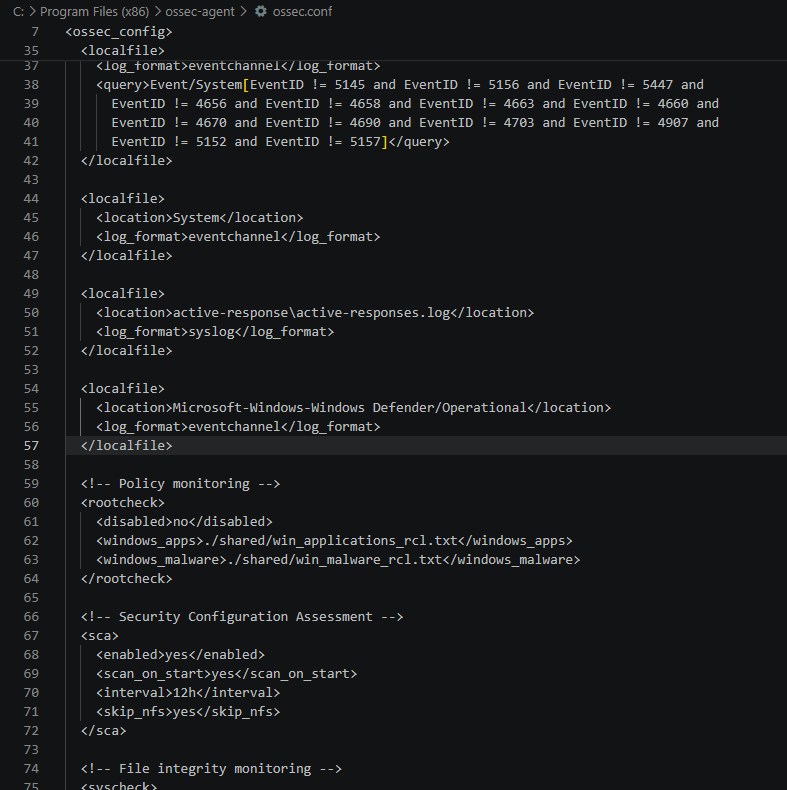
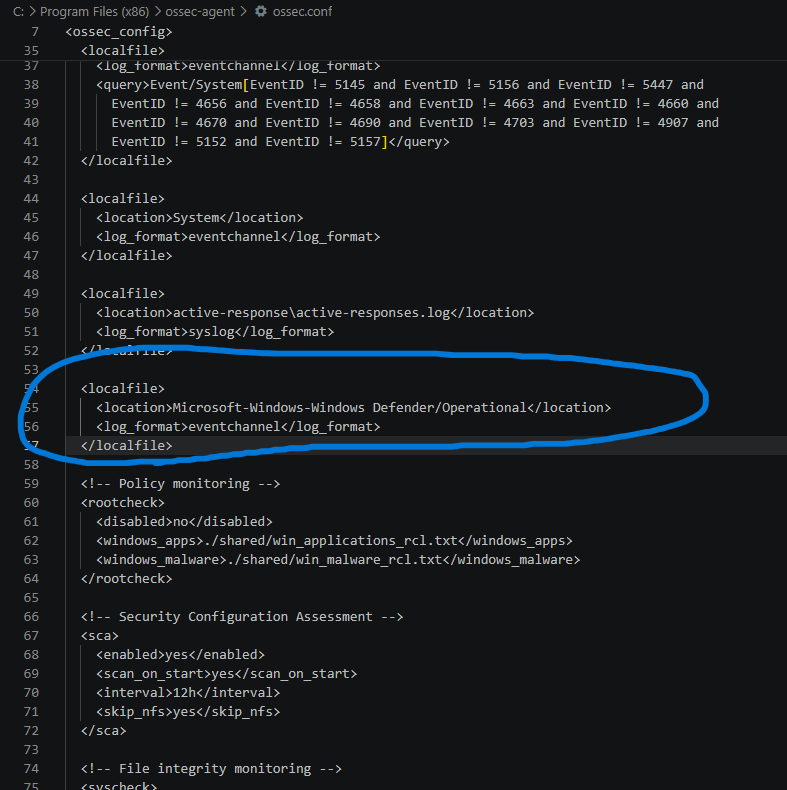
updated proj
removed unnecessary images
updated readme with current project progress
renamed some files for consistency

diff --git a/README.md b/README.md
@@ -50,12 +50,12 @@ The first thing I did to start was to head over to [The Wazuh Docs](https://docu
 
 ![Figure 1](./assets/images/fig-1_server_started.png)
 
-Once that was running, I went to the webpage on localhost port 443 to login with the provided credentials and view the dashboard.
+Once that was running, I went to the webpage on localhost port 443 to log in with the provided credentials and view the dashboard.
 
 
 ![Figure 1.1](./assets/images/fig-1.1_wazuh_dashboard.png)
 
-As you can see, at this point there were no agents running, and the data is all fluff. Time to change that by installing some agents. I started with endpoint-01.
+As you can see, at this point there were no agents running, and the data was all fluff. Time to change that by installing some agents. I started with endpoint-01.
 
 
 ![Figure 2](./assets/images/fig-2_install_agent_endpoint-01.png)
@@ -65,13 +65,13 @@ Once that finished, I made sure it was running.
 
 ![Figure 3](./assets/images/fig-3_wazuh_agent_running.png)
 
-I checked the dashboard to verify that the agent could reach the server on the VM
+I checked the dashboard to verify that the agent could reach the server running on the VM.
 
 
 ![Figure 4](./assets/images/fig-4_endpoint_01_configured.png)
 
 
-Everything looked good, so I moved onto endpoint-02. I had some challenges with the Wazuh agent installation on Windows, but that was only because I misread a section of the docs and didn't download the .msi file required. Once I realized my mistake, I quickly corrected it by downloading the correct file and running the command provided.
+Everything looked good, so I moved on to endpoint-02. I had some challenges with the Wazuh agent installation on Windows, but that was only because I misread a section of the docs and didn't download the .msi file required. Once I realized my mistake, I quickly corrected it by downloading the correct file and running the command provided.
 
 ![Figure 5](./assets/images/fig-5_endpoint-02_started.png)
 
@@ -87,34 +87,40 @@ Stay tuned for part 2: Electric Bugaloo
 
 # Part 2: Adding Windows and Linux Logs
 
-I wanted to add more logging functionality, so I decided to add Windows/Linux logs for more alerts. 
+I wanted to add additional logging functionality, so I decided to add Windows and Linux logs for more alerts. 
 I followed [this guide](https://github.com/UsmanPrime/Wazuh-Setup). 
 
 Starting with Windows, I opened the `ossec.conf` file and added a section of code that would add Windows Defender events with appropriate alert levels to the Wazuh agent.
  
-![Figure 7](./assets/images/fig-7_sysmon.png)
+![Figure 7](./assets/images/fig-7_win_defender.png)
 
 
-Then, I added Sysmon logging: 
+Then, for more detailed logging, I installed and configured Sysmon.
 
-![Figure 8](./assets/images/fig-8_win_defender.png)
+**Installation**
+
+![Figure 8.2: Installation](./assets/images/fig-82_sysmon_installed.png)
+
+**Configuration**
+
+![Figure 8.1: Configuration](./assets/images/fig-81_sysmon.png)
 
 
-Lastly, I added monitoring of a specific directory, including notifications of when a file was deleted, created, or modified. 
+Lastly, I added monitoring of a custom directory, including notifications when a file was deleted, created, or modified. This is in addition to the directories already monitored by default.
+Here I only created a test directory to show how it is done, but this process works for any folder on Windows. 
 
-![Figure 9](./assets/images/)
+![Figure 9](./assets/images/fig-9_file_integrity.png)
 
 
-In order to test these functions, I created some alerts by logging in/out and by creating some files. Then, I went to the dashboard and verified that I could see that the alerts triggered.
+To test the alerts, I created, deleted, and edited some files. I used PowerShell to launch `notepad.exe` to generate sysmon events. I also downloaded the EICAR file to generate Windows Defender logs. 
+
+Then, I went to the dashboard and verified that I could see that the alerts were triggered.
 
 Windows Defender logs:
-![Figure 10](./assets/images/)
+![Figure 10](./assets/images/fig-10_win_defender_alerts.png)
 
-Sysmon logs:
-![Figure 10](./assets/images/)
-
-Directory monitoring logs:
-![Figure 10](./assets/images/)
+Sysmon log alerts and file monitoring alerts:
+![Figure 11](./assets/images/fig-11_sysmon-and-file_alerts.png)
 
 
-Once I verified that Wazuh was properly configured on Windows, I turned to endpoint-01 on Linux. I added both systemd journal logs and directory monitoring.
+Part 3 coming soon: Adding both systemd journal logs and directory monitoring on endpoint-01 on Linux.
